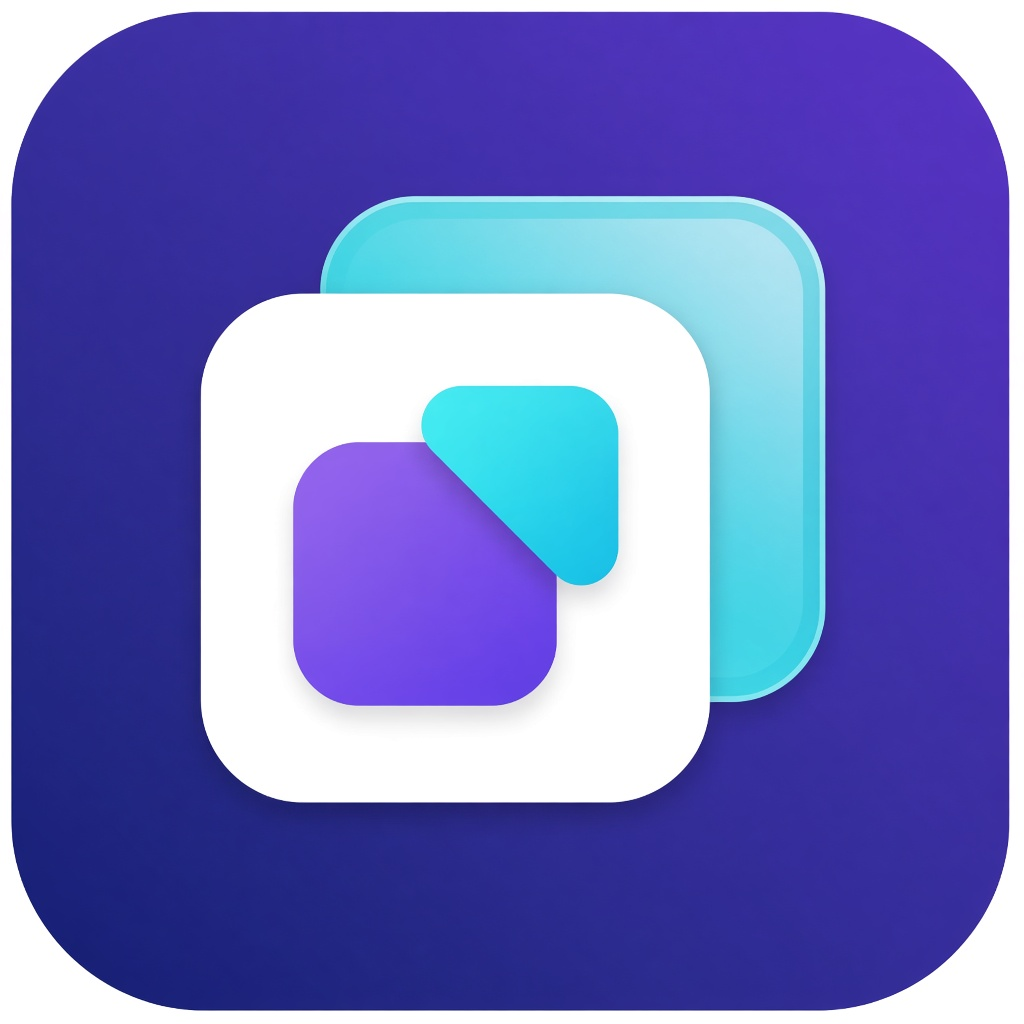
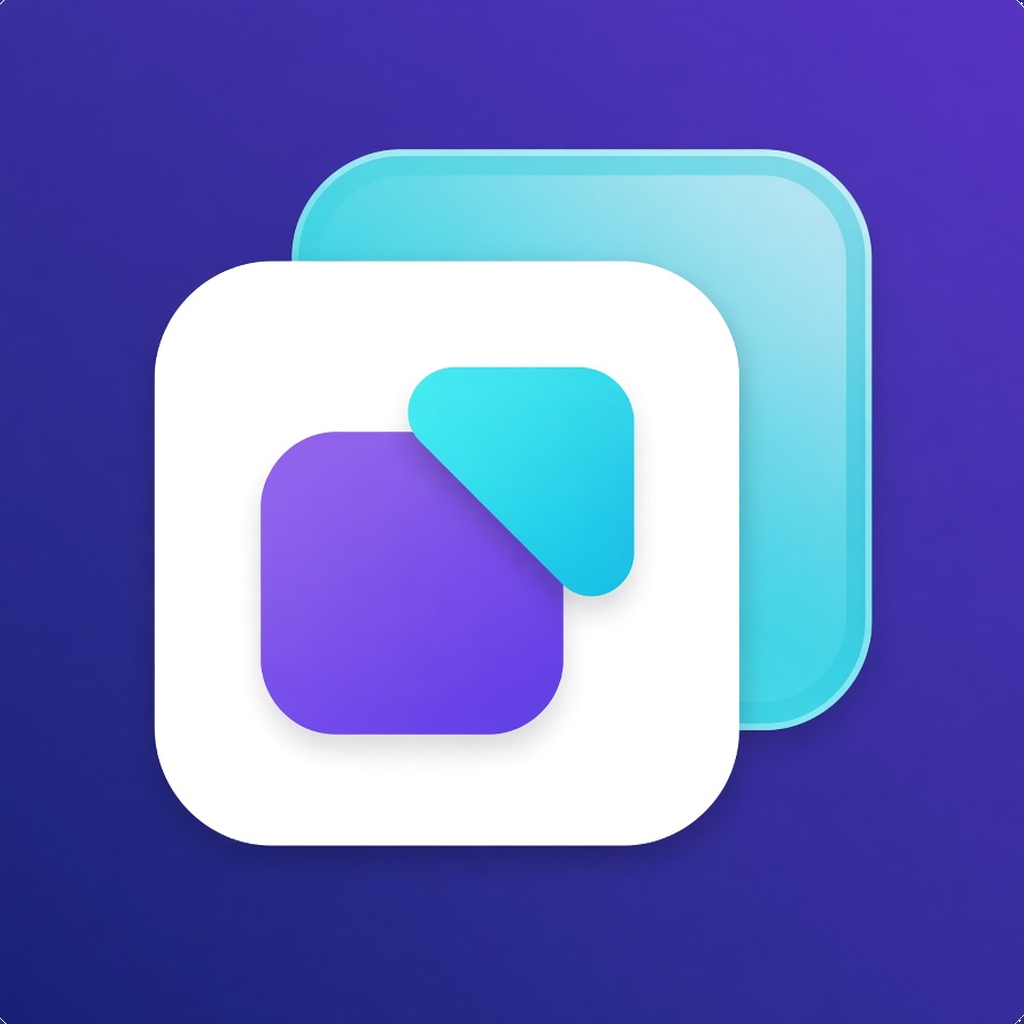
1.3.24: 首页标题迁移 Alter Ego；图标附件满版铺满
- SharedPreferences 旧默认「平行空间」启动时迁移为 Alter Ego
- 启动图标以用户附件为唯一源：放大铺满 + 仅四角 flood-fill 画布白边，保留白窗；自适应无 inset

diff --git a/lib/state/settings_store.dart b/lib/state/settings_store.dart
@@ -10,6 +10,11 @@ class SettingsStore extends ChangeNotifier {
     }
 
     spaceTitle = get<String>('s.title') ?? spaceTitle;
+    // 旧版默认产品名「平行空间」写进了 prefs；升级后迁移为 Alter Ego（用户自定义标题保留）。
+    if (isLegacyProductTitle(spaceTitle)) {
+      spaceTitle = kDefaultSpaceTitle;
+      _prefs.setString('s.title', spaceTitle);
+    }
     final ti = get<int>('s.theme') ?? 0;
     themeMode = ThemeMode.values[ti.clamp(0, ThemeMode.values.length - 1)];
     useDynamicColor = get<bool>('s.dyn') ?? useDynamicColor;
@@ -25,7 +30,17 @@ class SettingsStore extends ChangeNotifier {
   }
 
   final SharedPreferences _prefs;
-  String spaceTitle = 'Alter Ego';
+
+  /// 桌面大标题 / 关于页等处的产品名默认值。
+  static const String kDefaultSpaceTitle = 'Alter Ego';
+
+  /// 需要自动迁移的旧默认名（不含用户自定义如「我的空间」）。
+  static bool isLegacyProductTitle(String t) {
+    final s = t.trim();
+    return s == '平行空间' || s == 'Parallel Space' || s == 'parallel space';
+  }
+
+  String spaceTitle = kDefaultSpaceTitle;
   ThemeMode themeMode = ThemeMode.system;
   bool useDynamicColor = true;
   Color seed = seedOptions.first;
@@ -78,7 +93,8 @@ class SettingsStore extends ChangeNotifier {
 
   void applyBackup(Map<String, dynamic> m) => set((s) {
         if (m['title'] is String && (m['title'] as String).trim().isNotEmpty) {
-          final t = (m['title'] as String).trim();
+          var t = (m['title'] as String).trim();
+          if (isLegacyProductTitle(t)) t = kDefaultSpaceTitle;
           s.spaceTitle = t.length > 10 ? t.substring(0, 10) : t;
         }
         if (m['theme'] is int) s.themeMode = ThemeMode.values[(m['theme'] as int).clamp(0, ThemeMode.values.length - 1)];

diff --git a/test/vault_test.dart b/test/vault_test.dart
@@ -21,14 +21,14 @@ Future<void> settle(WidgetTester t, [int frames = 20]) async {
 }
 
 void main() {
-  test('版本号只加最后一位：1.3.23 → 12323', () {
-    expect(kAppVersionName, '1.3.23');
-    expect(kAppVersionCode, 12323);
-    expect(encodeVersionCode(1, 3, 23), kAppVersionCode);
-    expect(versionCodeFromName('1.3.23'), 12323);
-    expect(encodeVersionCode(1, 3, 23), greaterThan(12302));
-    expect(encodeVersionCode(1, 3, 23), greaterThan(10305));
-    expect(encodeVersionCode(1, 3, 23), greaterThan(12322));
+  test('版本号只加最后一位：1.3.24 → 12324', () {
+    expect(kAppVersionName, '1.3.24');
+    expect(kAppVersionCode, 12324);
+    expect(encodeVersionCode(1, 3, 24), kAppVersionCode);
+    expect(versionCodeFromName('1.3.24'), 12324);
+    expect(encodeVersionCode(1, 3, 24), greaterThan(12302));
+    expect(encodeVersionCode(1, 3, 24), greaterThan(10305));
+    expect(encodeVersionCode(1, 3, 24), greaterThan(12323));
   });
 
   test('密码本按分身分组，当前包名排在前面', () {
@@ -139,7 +139,7 @@ void main() {
     await t.scrollUntilVisible(find.text('本项目开源'), 400);
     expect(find.textContaining('流年似水'), findsOneWidget);
     expect(find.text('https://github.com/Liunian520/parallel_space'), findsOneWidget);
-    expect(find.textContaining('1.3.23'), findsWidgets);
+    expect(find.textContaining('1.3.24'), findsWidgets);
   });
 
   testWidgets('密码本可以直接添加、分组和删除', (t) async {

diff --git a/test/store_test.dart b/test/store_test.dart
@@ -251,6 +251,24 @@ void main() {
   });
 
   group('SettingsStore', () {
+    test('旧默认标题「平行空间」升级迁移为 Alter Ego；自定义标题保留', () async {
+      final legacy = await prefsWith({'s.title': '平行空间'});
+      final st = SettingsStore(legacy);
+      expect(st.spaceTitle, 'Alter Ego');
+      expect(legacy.getString('s.title'), 'Alter Ego');
+
+      final custom = await prefsWith({'s.title': '我的空间'});
+      final st2 = SettingsStore(custom);
+      expect(st2.spaceTitle, '我的空间');
+
+      final fresh = await prefsWith({});
+      final st3 = SettingsStore(fresh);
+      expect(st3.spaceTitle, 'Alter Ego');
+
+      st3.applyBackup({'title': '平行空间'});
+      expect(st3.spaceTitle, 'Alter Ego');
+    });
+
     test('越界 / 类型错误不崩溃；移除旧的模拟通知设置；精简特效默认开启', () async {
       final p = await prefsWith({'s.theme': 9, 'priv.pinHash': 'h', 's.dyn': 'yes', 's.badge': true, 's.dndS': 3});
       final st = SettingsStore(p);

diff --git a/lib/config/app_version.dart b/lib/config/app_version.dart
@@ -1,5 +1,5 @@
 /// 与 pubspec.yaml 的 `version` 保持一致。
-/// 1.3.x 的 versionCode = 12300 + 修订号（1.3.23 → 12323），保证高于已装的 12301/12302 与 10303–10306。
+/// 1.3.x 的 versionCode = 12300 + 修订号（1.3.24 → 12324），保证高于已装的 12301/12302 与 10303–10306。
 /// 以后只把最后一位加 1，并同步 README 徽章与 CHANGELOG。
-const String kAppVersionName = '1.3.23';
-const int kAppVersionCode = 12323;
+const String kAppVersionName = '1.3.24';
+const int kAppVersionCode = 12324;

diff --git a/README.md b/README.md
@@ -2,7 +2,7 @@
 
 > 中文名：**平行空间** · 应用分身 / 双开
 
-[![version](https://img.shields.io/badge/version-1.3.23-2F7CF6)](https://github.com/Liunian520/parallel_space/blob/main/CHANGELOG.md)
+[![version](https://img.shields.io/badge/version-1.3.24-2F7CF6)](https://github.com/Liunian520/parallel_space/blob/main/CHANGELOG.md)
 [![Flutter](https://img.shields.io/badge/Flutter-3.27%2B-02569B?logo=flutter&logoColor=white)](https://flutter.dev)
 [![Android](https://img.shields.io/badge/Android-8.0%2B-3DDC84?logo=android&logoColor=white)](https://developer.android.com)
 [![license](https://img.shields.io/badge/license-MIT-lightgrey)](LICENSE)
@@ -64,7 +64,7 @@ flutter test
 flutter build apk --release --target-platform android-arm64
 ```
 
-产物在 `build/app/outputs/flutter-apk/app-release.apk` 或 `app-arm64-v8a-release.apk`（`--split-per-abi`）。版本来自 `pubspec.yaml`，当前是 **1.3.23+12323**。
+产物在 `build/app/outputs/flutter-apk/app-release.apk` 或 `app-arm64-v8a-release.apk`（`--split-per-abi`）。版本来自 `pubspec.yaml`，当前是 **1.3.24+12324**。
 
 **签名**：release 使用本机 `~/.android/debug.keystore`（与历史安装包同一证书，SHA-256 以 `5F:63:37:…` 开头）。覆盖安装必须保持同一证书；换证书会导致「必须先卸载」。`android/app/build.gradle.kts` 里 `signingConfig = signingConfigs.getByName("debug")`。
 
@@ -72,7 +72,7 @@ flutter build apk --release --target-platform android-arm64
 
 ## 版本号
 
-只把修订号加 1：当前 `1.3.23`（versionCode `12323`），下一次是 `1.3.24`（`12324`）。
+只把修订号加 1：当前 `1.3.24`（versionCode `12324`），下一次是 `1.3.25`（`12325`）。
 
 1.3.x 的 `versionCode = 12300 + 修订号`（例如 1.3.1→12301、1.3.15→12315）。这样始终高于早期误用的 `10303–10305`，也高于已装的 `12301/12302`，覆盖安装不会因 versionCode 下降而失败。应用内更新按 **versionCode 数值大小** 比较。
 

diff --git a/CHANGELOG.md b/CHANGELOG.md
@@ -1,6 +1,18 @@
 # 更新记录
 
-版本号只递增最后一位。当前是 1.3.23（versionCode 12323），下一次是 1.3.24（12324）。1.3.x 使用 `versionCode = 12300 + 修订号`。每次改版本，同步更新 `pubspec.yaml`、`lib/config/app_version.dart`、`README.md` 顶部徽章和本文件。
+版本号只递增最后一位。当前是 1.3.24（versionCode 12324），下一次是 1.3.25（12325）。1.3.x 使用 `versionCode = 12300 + 修订号`。每次改版本，同步更新 `pubspec.yaml`、`lib/config/app_version.dart`、`README.md` 顶部徽章和本文件。
+
+## [1.3.24] - 2026-10-29
+
+### 修复
+
+- **首页大标题仍显示「平行空间」**：标题来自 `SettingsStore.spaceTitle` / SharedPreferences `s.title`。旧安装把默认名「平行空间」持久化了，仅改代码默认值不会覆盖。现启动时若标题为旧产品名「平行空间」（或 Parallel Space）则迁移为 **Alter Ego** 并写回 prefs；用户自定义标题（如「我的空间」）保留。备份恢复同样迁移。
+- 审计：`lib/` 与 Kotlin 用户可见文案中已无「平行空间」产品名残留（README 中文别名除外）。
+- **启动图标**：以用户指定附件为唯一源图，仅做等比缩放写入 mipmap / 自适应前景（满版、无 inset、不去白边、不重绘）；自适应背景取源图像素角点色。
+
+### 其他
+
+- 版本 `1.3.24+12324`。
 
 ## [1.3.23] - 2026-10-29
 
